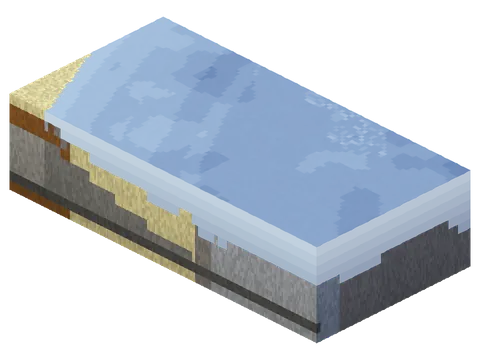
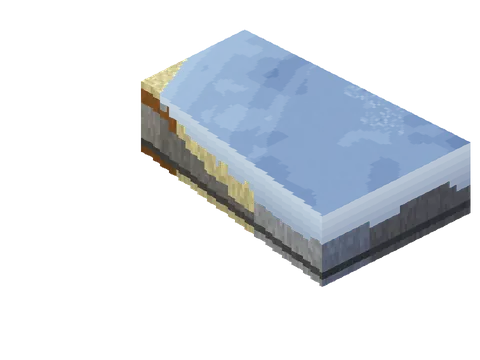
Preview round 1: diagonal river cut-away, whole trees, popover fixes
River bed pictures are cut along the image diagonal (cut=diag), legacy trees use a crop with whole
trees. The popover shows once its picture has loaded, closes the text tooltip on Escape, sets
aria-describedby, survives a second init and places itself in narrow windows. Romanian decimals
use a comma. The generator gets a main guard, an exe-value guard and a README.

diff --git a/src/gui/js/preview-popover.js b/src/gui/js/preview-popover.js
@@ -37,14 +37,23 @@ export function place(row, pop, vw, vh) {
   const rowFirst = (row.left + row.right) / 2 < vw / 2 ? [fitsRight && right, fitsLeft && left] : [fitsLeft && left, fitsRight && right];
   const x = rowFirst.find((v) => v !== false);
   if (x !== undefined) return { left: x, top: middle };
+  // Full-width row: below it, else above it. In a window too short for either, on the side with more room.
   const x0 = Math.max(MARGIN, Math.min(row.left, vw - pop.w - MARGIN));
   const below = row.bottom + GAP;
-  return { left: x0, top: below + pop.h <= vh - MARGIN ? below : clampY(row.top - GAP - pop.h) };
+  const above = row.top - GAP - pop.h;
+  if (below + pop.h <= vh - MARGIN) return { left: x0, top: below };
+  if (above >= MARGIN) return { left: x0, top: above };
+  return { left: x0, top: vh - row.bottom > row.top ? clampY(below) : clampY(above) };
 }
 
+let started = false;
+
 export function initPreviews() {
+  if (started) return; // the popover is created once, whoever calls this
+  started = true;
   const pop = document.createElement('div');
   pop.className = 'preview-popover';
+  pop.id = 'preview-popover';
   pop.setAttribute('role', 'tooltip');
   pop.setAttribute('aria-hidden', 'true');
   const img = document.createElement('img');
@@ -59,8 +68,12 @@ export function initPreviews() {
   document.body.appendChild(pop);
 
   let open = false;
+  let current = null; // the icon the picture is for
+  let want = null; // the file being loaded
   const hide = () => {
     open = false;
+    want = null;
+    if (current) current.removeAttribute('aria-describedby');
     pop.classList.remove('is-visible');
     pop.setAttribute('aria-hidden', 'true');
   };
@@ -68,8 +81,22 @@ export function initPreviews() {
     const name = previewName(icon, button);
     if (!name) return hide();
     const text = (window.localization && window.localization[captionKey(name)]) || '';
+    if (current && current !== icon) current.removeAttribute('aria-describedby');
+    current = icon;
+    icon.setAttribute('aria-describedby', pop.id);
+    // The popover appears once the picture is in, so the one before it never flashes; the caption is the
+    // text (the picture's alt is empty so a screen reader does not say it twice).
+    pop.classList.remove('is-visible');
     img.onerror = hide; // a picture that is missing leaves the icon's text tooltip alone
-    img.alt = text;
+    want = name;
+    img.onload = () => {
+      if (want === name) {
+        pop.classList.add('is-visible');
+        pop.setAttribute('aria-hidden', 'false');
+      }
+    };
+    img.removeAttribute('src');
+    img.alt = '';
     img.src = `${BASE}${name}.webp`;
     caption.textContent = text;
     const row = icon.closest('.settings-row').getBoundingClientRect();
@@ -78,15 +105,19 @@ export function initPreviews() {
     pop.style.left = `${at.left}px`;
     pop.style.top = `${at.top}px`;
     open = true;
-    pop.classList.add('is-visible');
-    pop.setAttribute('aria-hidden', 'false');
   };
 
   document.querySelectorAll('.tooltip-icon[data-preview-on], .tooltip-icon[data-preview-seg]').forEach((icon) => {
     for (const ev of ['mouseenter', 'focus']) icon.addEventListener(ev, () => show(icon, null));
     for (const ev of ['mouseleave', 'blur']) icon.addEventListener(ev, hide);
+    const row = icon.closest('.settings-row');
+    const sw = row.querySelector('input.switch');
+    if (sw) {
+      sw.addEventListener('focus', () => show(icon, null));
+      sw.addEventListener('blur', hide);
+    }
     if (!icon.dataset.previewSeg) return;
-    icon.closest('.settings-row').querySelectorAll('.segment').forEach((b) => {
+    row.querySelectorAll('.segment').forEach((b) => {
       for (const ev of ['mouseenter', 'focus']) b.addEventListener(ev, () => show(icon, b));
       for (const ev of ['mouseleave', 'blur']) b.addEventListener(ev, hide);
     });
@@ -96,7 +127,10 @@ export function initPreviews() {
   // closes the picture first and the page on the next press.
   document.addEventListener('keydown', (e) => {
     if (e.key === 'Escape' && open) {
+      const icon = current;
       hide();
+      // Louis's text tooltip hides on mouseleave; it would otherwise stay up with the picture gone.
+      if (icon) icon.dispatchEvent(new Event('mouseleave'));
       e.stopPropagation();
     }
   }, true);

diff --git a/scripts/previews3d/iso_render_v2.py b/scripts/previews3d/iso_render_v2.py
@@ -8,7 +8,7 @@ from the Arnis map palette parsed out of src/map_renderer.rs.
 
 Crop keys (see previews3d.json): slab=[z centre frac, z width, x frac lo, x frac hi],
 box=[x0, x1, z0, z1] absolute, vert=vertical exaggeration, floor=N clamps the diorama
-bottom to median ground - N, depth=N draws the cut N blocks below the lowest ground (default 3, caves need ~40), cut=true drops the half of the window on the +z side so
+bottom to median ground - N, depth=N draws the cut N blocks below the lowest ground (default 3, caves need ~40), cut="diag" removes every column below the line from the image's top-left to its bottom-right corner (a river cross-section on a diagonal cut face); cut=F (true = 0.5) keeps the first fraction F of the window along z and drops the +z side (bottom-left on screen, framing stays that of the whole window) so
 the exposed face along the diagonal is a cross-section (top-left to bottom-right on screen).
 Driver: previews3d.py.
 """
@@ -129,13 +129,13 @@ def load(world, slab=None, box=None, margin=0.96, cut=False):
         z0, z1 = zc - slab[1] // 2, zc + slab[1] // 2
     if box:
         x0, x1, z0, z1 = box
-    if cut:  # the window keeps its square span for scale; columns past the centre line are dropped
-        zcut = (z0 + z1) // 2
+    if cut:  # cut = fraction of the window's z depth kept; render() drops the rest after framing the whole window
+        zcut = z0 + int((z1 - z0) * (0.5 if cut is True else 0.5 if cut == "diag" else cut))
     span = (x1 - x0) + (z1 - z0)
     s_est = min(W * margin / span, H * margin * 2 / span)
     k = max(1, round(0.7 / s_est))
     cols, prof = {}, {}  # prof: the cut face's columns block by block (stone, ores, caves show as they are)
-    zl = ((zcut - 1) // k) * k if cut else None
+    zl = ((zcut - 1) // k) * k if cut and cut != "diag" else None
     for cx, cz, mca, off in all_chunks:
         if cz * 16 + 15 < z0 or cz * 16 >= z1 or cx * 16 + 15 < x0 or cx * 16 >= x1:
             continue
@@ -146,7 +146,7 @@ def load(world, slab=None, box=None, margin=0.96, cut=False):
         solid, water, glass = np.array(blocks.solid), np.array(blocks.water), np.array(blocks.glass)
         for z in range(16):
             wz = cz * 16 + z
-            if wz % k or not z0 <= wz < (zcut if cut else z1):
+            if wz % k or not z0 <= wz < z1:
                 continue
             for x in range(16):
                 wx = cx * 16 + x
@@ -160,13 +160,13 @@ def load(world, slab=None, box=None, margin=0.96, cut=False):
                     under = int(vol[t - 1, z, x]) if t > b else top
                     runs.append((y0 + b, y0 + t, top, under))
                 col = vol[:, z, x]
-                if wz == zl:
+                if cut and (cut == "diag" or wz == zl):
                     prof[(wx, wz)] = (y0, col.copy())
                 wcol = np.nonzero(water[col])[0]
                 gl = [(y0 + int(y), int(col[y])) for y in np.nonzero(glass[col])[0]]
                 cols[(wx, wz)] = (runs, y0 + int(wcol[-1]) if len(wcol) else None,
                                   y0 + int(wcol[0]) if len(wcol) else None, gl)
-    return cols, blocks.names, k, prof
+    return cols, blocks.names, k, prof, zl
 
 
 # --- per-cell tones -------------------------------------------------------------
@@ -205,7 +205,7 @@ def amp(name):
 def render(world, slab=None, vert=VERT, box=None, fx=frozenset(STEPS), ss=2, floor=None, cut=False, depth=3):
     t0 = time.time()
     margin = 0.93 if "shadow" in fx else 0.96
-    cols, names, k, prof = load(world, slab=slab, box=box, margin=margin, cut=cut)
+    cols, names, k, prof, zl = load(world, slab=slab, box=box, margin=margin, cut=cut)
     t1 = time.time()
     keys = list(cols)
     ground = {key: (cols[key][0][0][1] if cols[key][0] else -64) for key in keys}
@@ -225,6 +225,19 @@ def render(world, slab=None, vert=VERT, box=None, fx=frozenset(STEPS), ss=2, flo
     cw, ch = W * ss, H * ss
     ox = cw / 2 - (xmin + xmax) / 2 * S
     oy = ch / 2 - (ymin + ymax) / 2 * S - (H * 0.012 * ss if "shadow" in fx else 0)
+    if cut:  # framed on the whole window; the +z side (bottom-left on screen) is now removed and leaves the background
+        mid = int(np.median(list(ground.values())))  # one height for every column, so the cut is a clean plane
+        for q in keys:
+            x, z = q
+            if cut == "diag":  # below the line from the image's top-left to its bottom-right corner
+                sx = ((x - z + k) * S + ox) / ss
+                sy = ((x + z + k) * S / 2 - (mid + 1) * S * vert + oy) / ss
+                gone = sy / H > sx / W
+            else:
+                gone = q[1] > zl
+            if gone:
+                del cols[q], ground[q]
+        keys = list(cols)
     # Cells per face edge: about one per 4 output px of a block's width, 1..3.
     n = max(1, min(3, round(2 * s * k / 4))) if ("noise" in fx or "ao" in fx) else 1
 
@@ -312,14 +325,13 @@ def render(world, slab=None, vert=VERT, box=None, fx=frozenset(STEPS), ss=2, flo
         if top_c is not None:
             draw.polygon([P(x, z, hi), P(x + k, z, hi), P(x + k, z + k, hi), P(x, z + k, hi)], fill=top_c + (a,))
 
-    zcut = max(z for _, z in keys) if cut else None  # the cut face's row of columns
     cells = n > 1 or "shade" in fx or "edges" in fx  # per-block drawing path
     nb = 0
     for (x, z) in sorted(keys, key=lambda q: (q[0] + q[1], q[0])):
         runs, wt, wb, gl = cols[(x, z)]
         front = [ground.get((x + k, z)), ground.get((x, z + k))]
         items = [(r[0], 0, r) for r in runs] + ([(g[0], 1, g) for g in gl] if "glass" in fx else [])
-        if z == zcut:  # air between runs (caves) shows on the cut face as dark openings
+        if cut and ((x, z + k) not in cols if cut == "diag" else z == zl):  # air between runs (caves) shows on the cut face as dark openings
             for (_, t0, _, _), (b1, _, _, _) in zip(runs, runs[1:]):
                 if b1 > t0 + 1:
                     draw.polygon([P(x, z + k, b1), P(x + k, z + k, b1), P(x + k, z + k, t0 + 1), P(x, z + k, t0 + 1)],

diff --git a/scripts/previews3d/previews3d.py b/scripts/previews3d/previews3d.py
@@ -3,6 +3,8 @@
 For each {name, bbox, flags, crop} in previews3d.json (next to this file) builds the tiny world with the
 Arnis binary into a temp dir (worlds with the same bbox and flags are built once) and renders
 <out>/<name>.webp, 480x360. Needs nbtlib, numpy, Pillow. Default out: src/gui/images/previews3d.
+The exe fetches live OSM and elevation data, so a regenerated picture can differ a little from the committed
+one (new map edits); regenerate only the pictures whose setting changed (name prefix).
 """
 import json, os, shutil, subprocess, sys, tempfile
 from pathlib import Path
@@ -20,11 +22,13 @@ def main():
         if k not in argv:
             return d
         i = argv.index(k)
+        if i + 1 >= len(argv):
+            sys.exit(f"{k} needs a value")
         v = argv[i + 1]
         del argv[i:i + 2]
         return Path(v)
 
-    exe = opt("--exe", Path(os.environ.get("ARNIS_EXE", ROOT / "target/release/arnis.exe")))
+    exe = opt("--exe", Path(os.environ.get("ARNIS_EXE", ROOT / ("target/release/arnis.exe" if os.name == "nt" else "target/release/arnis"))))
     out = opt("--out", ROOT / "src/gui/images/previews3d")
     manifest = opt("--manifest", HERE / "previews3d.json")
     keep = "--keep" in argv
@@ -55,4 +59,5 @@ def main():
             shutil.rmtree(tmp, ignore_errors=True)
 
 
-main()
+if __name__ == "__main__":
+    main()

diff --git a/scripts/previews3d/README.md b/scripts/previews3d/README.md
@@ -1,0 +1,15 @@
+# Setting previews (3D)
+
+The pictures in `src/gui/images/previews3d/` (shown by the settings page, `src/gui/js/preview-popover.js`) are made here.
+
+    python -I scripts/previews3d/previews3d.py [name-prefix] --exe target/release/arnis.exe
+
+Needs Python with nbtlib, numpy and Pillow. Each entry of `previews3d.json` is `{name, bbox, flags, crop}`; the driver builds
+that bbox with the Arnis binary into a temp folder and writes `<name>.webp` (480x360, at most 30 KB). Naming is
+`<setting>-<value>.webp`; the page names a picture in `data-preview-on/-off` (switches) or `data-preview-seg` (buttons, by `data-v`).
+A new picture needs a `preview_<name with _>` caption key in every locale file.
+
+The binary fetches live map data, so a regenerated picture can differ a little from the committed one. After a change to road
+markings regenerate just those: `python -I scripts/previews3d/previews3d.py road-detail --exe ...`.
+
+Tests: `node tests/gui/preview-popover.mjs` (from any folder).
